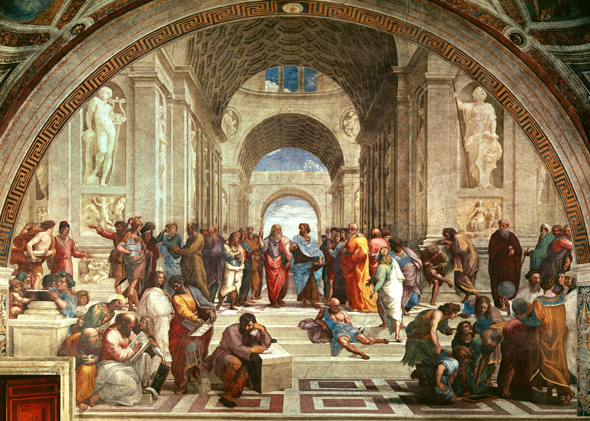
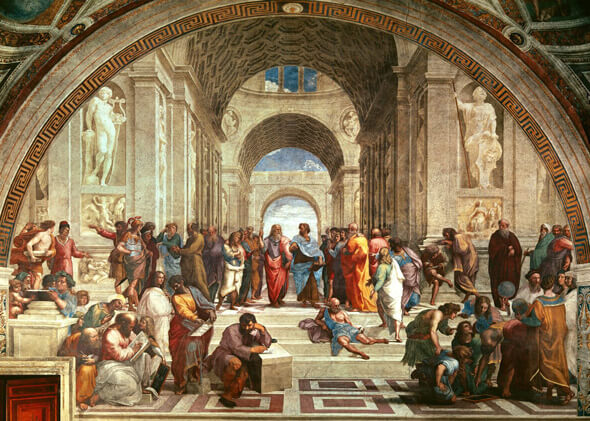
Replace images with optimized sizes

diff --git a/src/components/ResearchPaperSection/ResearchPaperSection.css b/src/components/ResearchPaperSection/ResearchPaperSection.css
@@ -1,7 +1,11 @@
 .ResearchPaperSection {
   display: block;
-  padding: 1rem;
+  margin-bottom: 2rem;
   clear: both;
+  overflow: auto;
+  overflow-wrap: break-word;
+  word-wrap: break-word;
+  hyphens: auto;
 }
 
 .ResearchPaperSection__thumbnail {
@@ -12,6 +16,11 @@
   margin-right: 12px;
 }
 
-.ResearchPaperSection h4:hover {
+.ResearchPaperSection__url {
   color: #3498db;
+  text-decoration: underline;
+}
+
+.ResearchPaperSection__url:hover {
+  font-weight: normal;
 }

diff --git a/src/components/ResearchPaperSection/ResearchPaperSection.jsx b/src/components/ResearchPaperSection/ResearchPaperSection.jsx
@@ -21,8 +21,12 @@ const ResearchPaperSection = ({ title, paperUrl, imageUrl, imageAltText,
       <ResponsiveImage
         src={imageUrl}
         alt={imageAltText}
-        className={`${baseClass}__thumbnail`}/>
+        className={`${baseClass}__thumbnail`}
+      />
+    </a>
       <h4>{title}</h4>
+    <a href={paperUrl} target="_blank">
+      <p className={`${baseClass}__url`}>{paperUrl}</p>
     </a>
     <p>{description}</p>
   </div>

diff --git a/src/components/Header/Header.css b/src/components/Header/Header.css
@@ -36,6 +36,10 @@
   line-height: 1.5em;
 }
 
+.Header__nav__item:hover {
+  font-weight: 900;
+}
+
 .Header__nav__item:last-child {
   margin-right: 0px;
 }

diff --git a/src/components/InfoBlock/InfoBlock.css b/src/components/InfoBlock/InfoBlock.css
@@ -3,6 +3,10 @@
   font-size: 0.9rem;
 }
 
+.InfoBlock a:hover {
+  color: #3498db;
+}
+
 .InfoBlock__img {}
 
 @media only screen and (max-width: 52rem) {

diff --git a/src/components/App.css b/src/components/App.css
@@ -11,10 +11,6 @@ a {
   color: black;
 }
 
-a:hover {
-  font-weight: 900;
-}
-
 a:active, a:visited {
   text-decoration: none;
   color: black;
